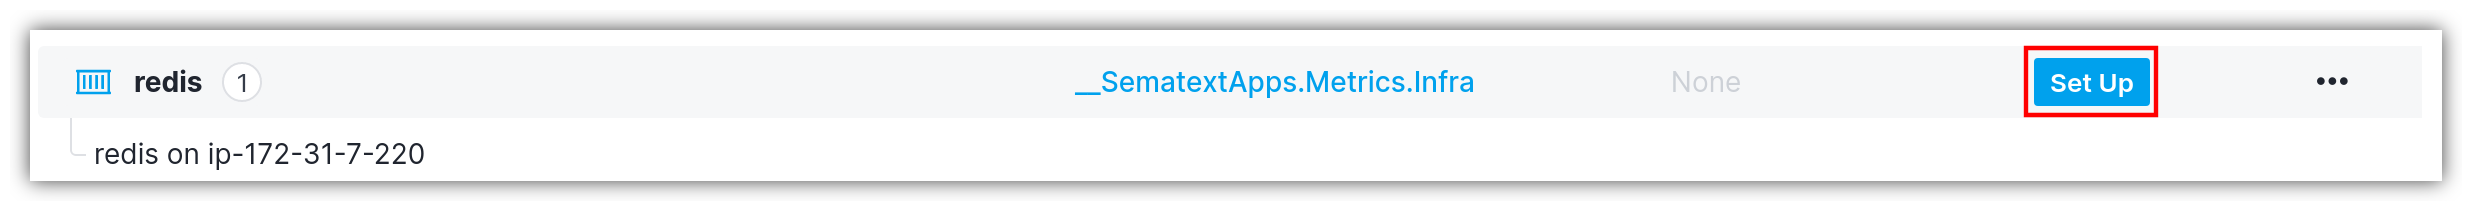
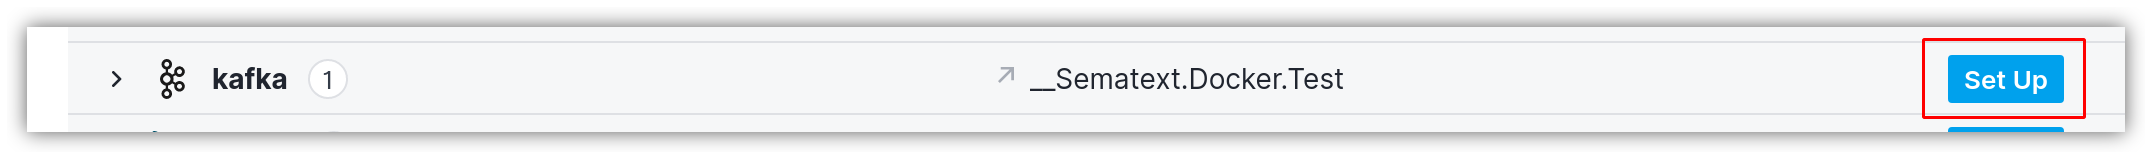
SC-10974: rework container logs discovery

diff --git a/docs/logs/discovery/tailing-containers.md b/docs/logs/discovery/tailing-containers.md
@@ -1,6 +1,10 @@
 title: Shipping Container Logs
 description: Shipping Container Log Sources
 
+Container Logs Discovery groups the containers by the type of service running inside the container. When the service type isn't recognized, the process name is shown instead. 
+
+![Container Logs Discovery](images/container-logs-discovery.png)
+
 To enable automatic container logs shipping, start by clicking on the `Set Up` button.
 
 ![Setup Log Files](images/setup-container-logs.png)
@@ -13,7 +17,7 @@ This will open the following flyout panel where you can configure container log 
 2. Select the destination Logs App. If the Logs App doesn't exist, you'll be able to create one from the same screen
 3. Click the `Save Changes` button
 
-Log shipping is configured on a per container image basis. This implies that any freshly created containers that match this image name will automatically have their logs shipped to Sematext Cloud.
+Log shipping is configured on a service/process basis. This implies that any freshly created containers that match the service type or process name will automatically have their logs shipped to Sematext Cloud.
 
 ## Filtering container logs by labels
 
